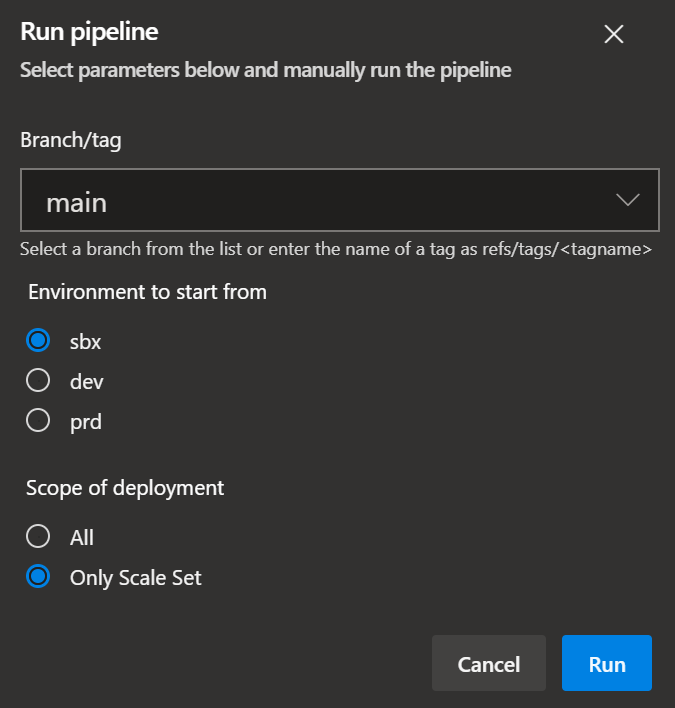
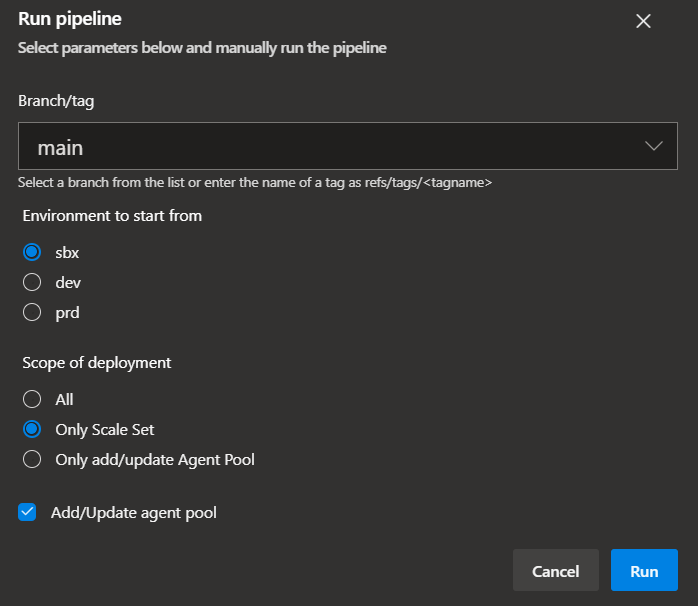
Update to latest

diff --git a/docs/wiki/Self-hosted Azure DevOps Virtual Machine Scale Set Agents.md b/docs/wiki/Self-hosted Azure DevOps Virtual Machine Scale Set Agents.md
@@ -230,7 +230,8 @@ Also, when triggering the pipeline you have several configuration options to cho
 | Runtime Parameter | Description | On first deployment | Additional notes |
 | - | - | - | - |
 | `Environment to start from` | The environment you want to start to deploy into as described [here](./Staging#3-run-the-pipeline)  | Set to `SBX` | |
-| `Scope of deployment` | Select whether you want to deploy all resources, or only the scale set | Set to `All` | |
+| `Scope of deployment` | Select whether you want to deploy all resources, only the scale set, or only register the agent pool (if configured) | Set to `All` | Overall you have the following options: <p> <li>**`All`**: Deploys all resources end-to-end including the optional agent pool registration (if enabled)</li><li>**`Only Scale Set`**: Deploys only the scale set and optionally registers the agent pool (if enabled)</li><li>**`Only add/update Agent Pool`**: Only execute the agent pool registration (if enabled)</li>|
+| `Add/Update agent pool` | Register or update the agent pool automatically in an Azure DevOps project. Operates independent of the `Scope of the deployment` selection. | Select (if pre-requisites are accounted for) | Requires the corresponding parameter file & environment to be configured correctly as documented in the [parameters](#parameters) section. |
 
 ### First deployment
 
